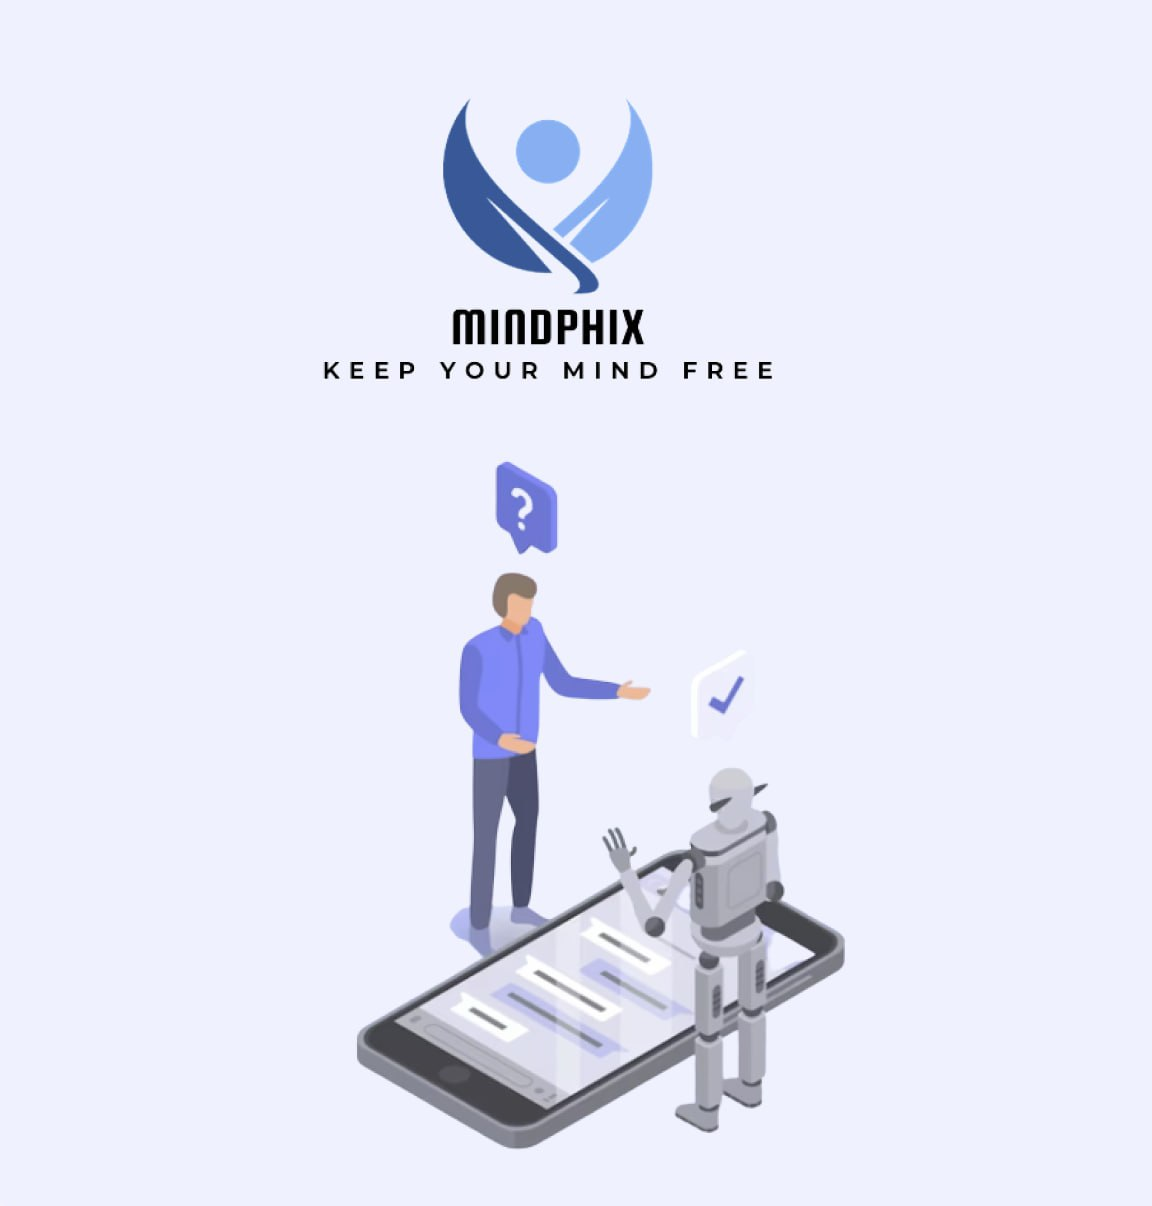
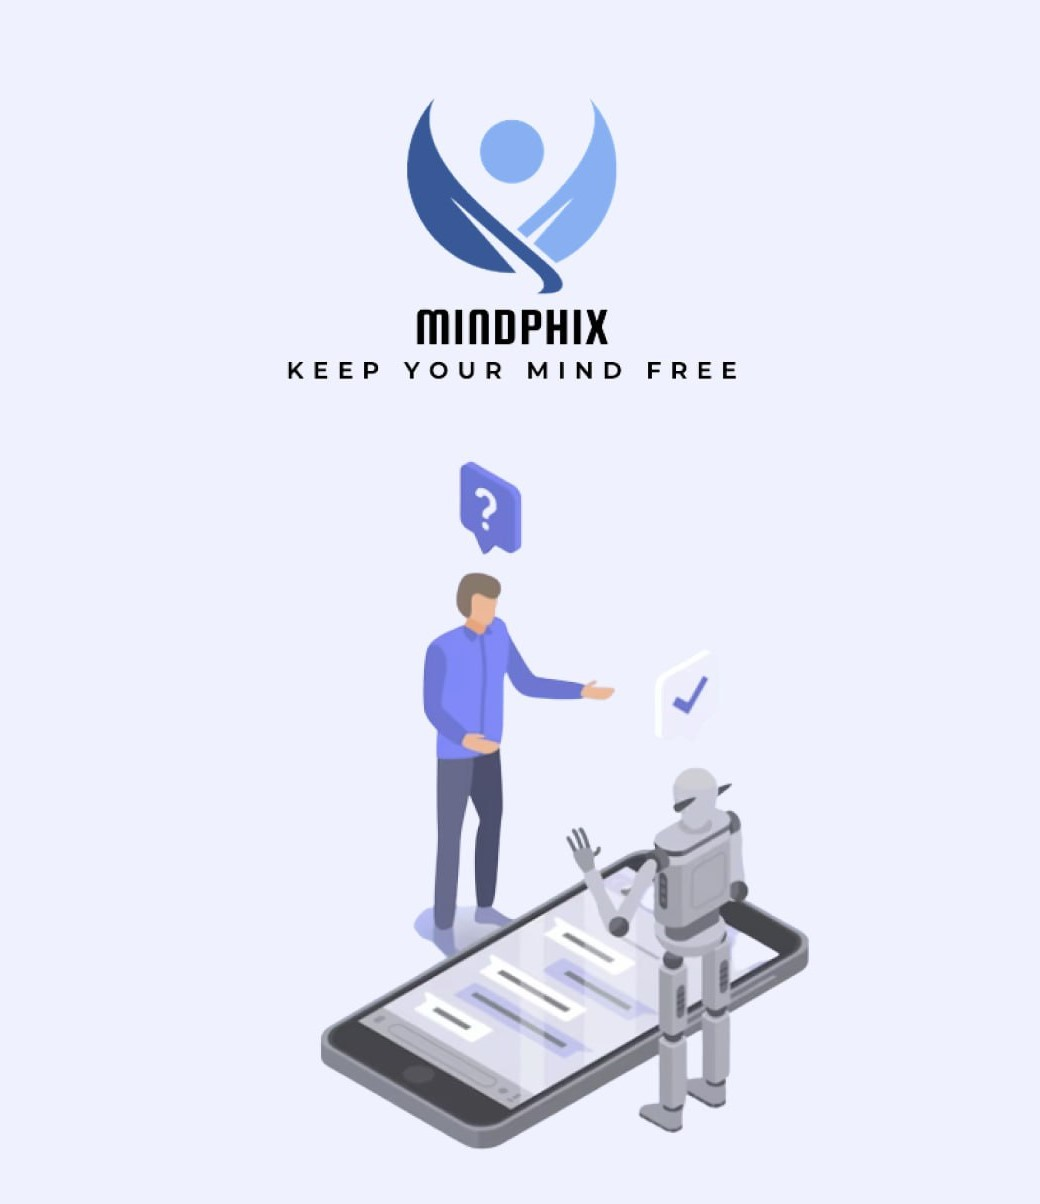
Screens Update
Some CSS stylings were added to home page to avoid content overflow. Some changes were done to sign up page

Changed region(s): [[0.3077, 0.3688, 0.8, 0.9527], [0.2769, 0.0922, 0.7077, 0.338]]

diff --git a/Next_App/mindphix-app/app/sign-up/signup.tsx b/Next_App/mindphix-app/app/sign-up/signup.tsx
@@ -80,8 +80,8 @@ export default function Signup() {
             className="rounded-tr-2xl rounded-br-2xl w-3/4"
             src={background}
             alt="background image"
-            width={200}
-            height={1000}
+            width={400}
+            height={500}
           />
 
           {/*Signin section*/}

diff --git a/Next_App/mindphix-app/app/styles/Home.css b/Next_App/mindphix-app/app/styles/Home.css
@@ -2,6 +2,8 @@
 
 body{
     font-family: 'Sarala', sans-serif;
+    max-width: 100%;
+    overflow-x: hidden;
 }
 
 nav{
